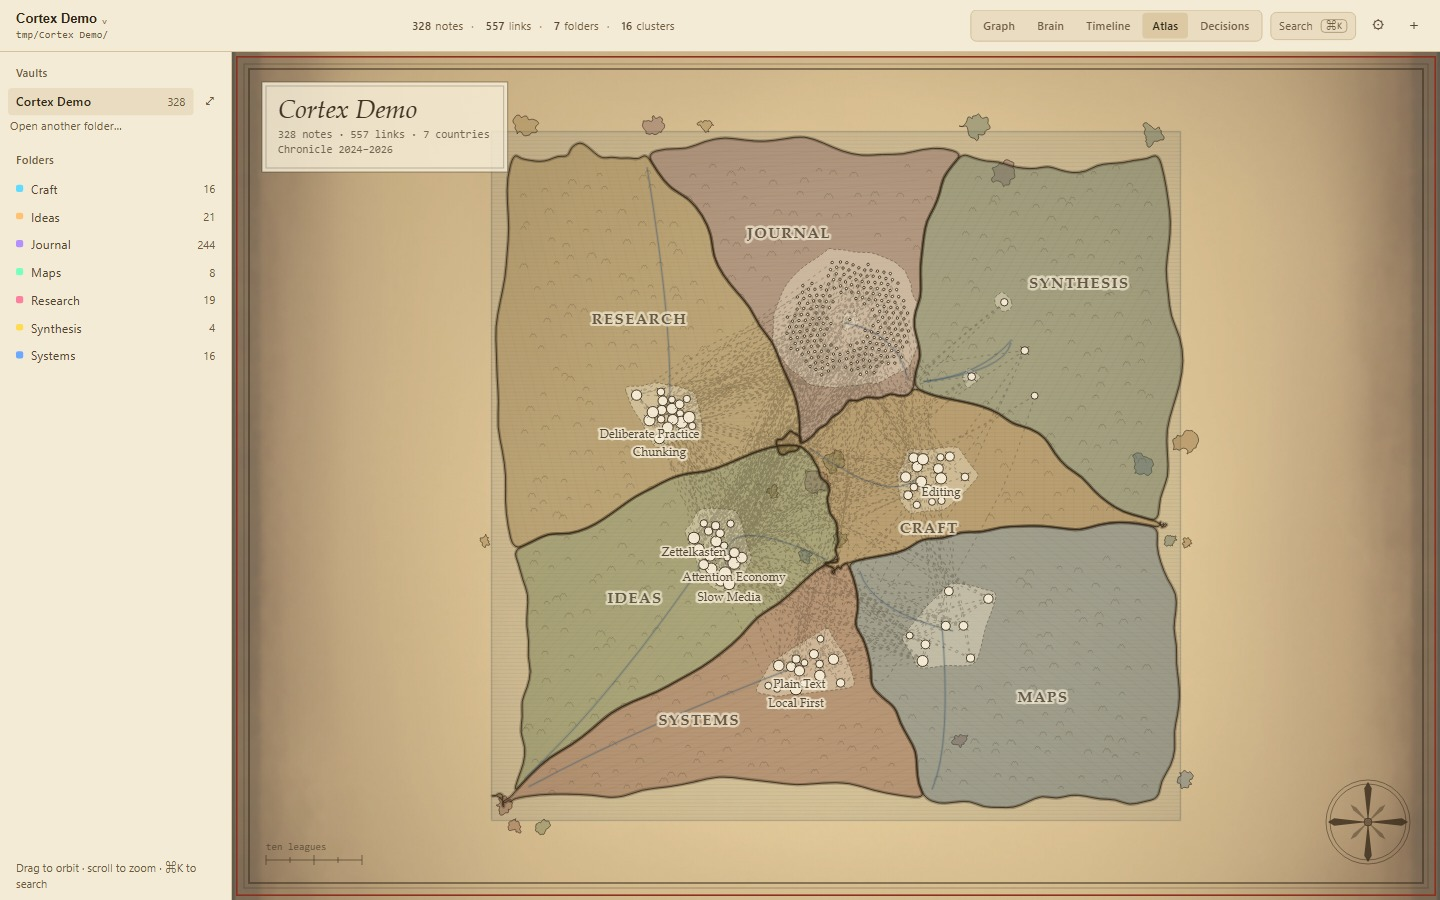
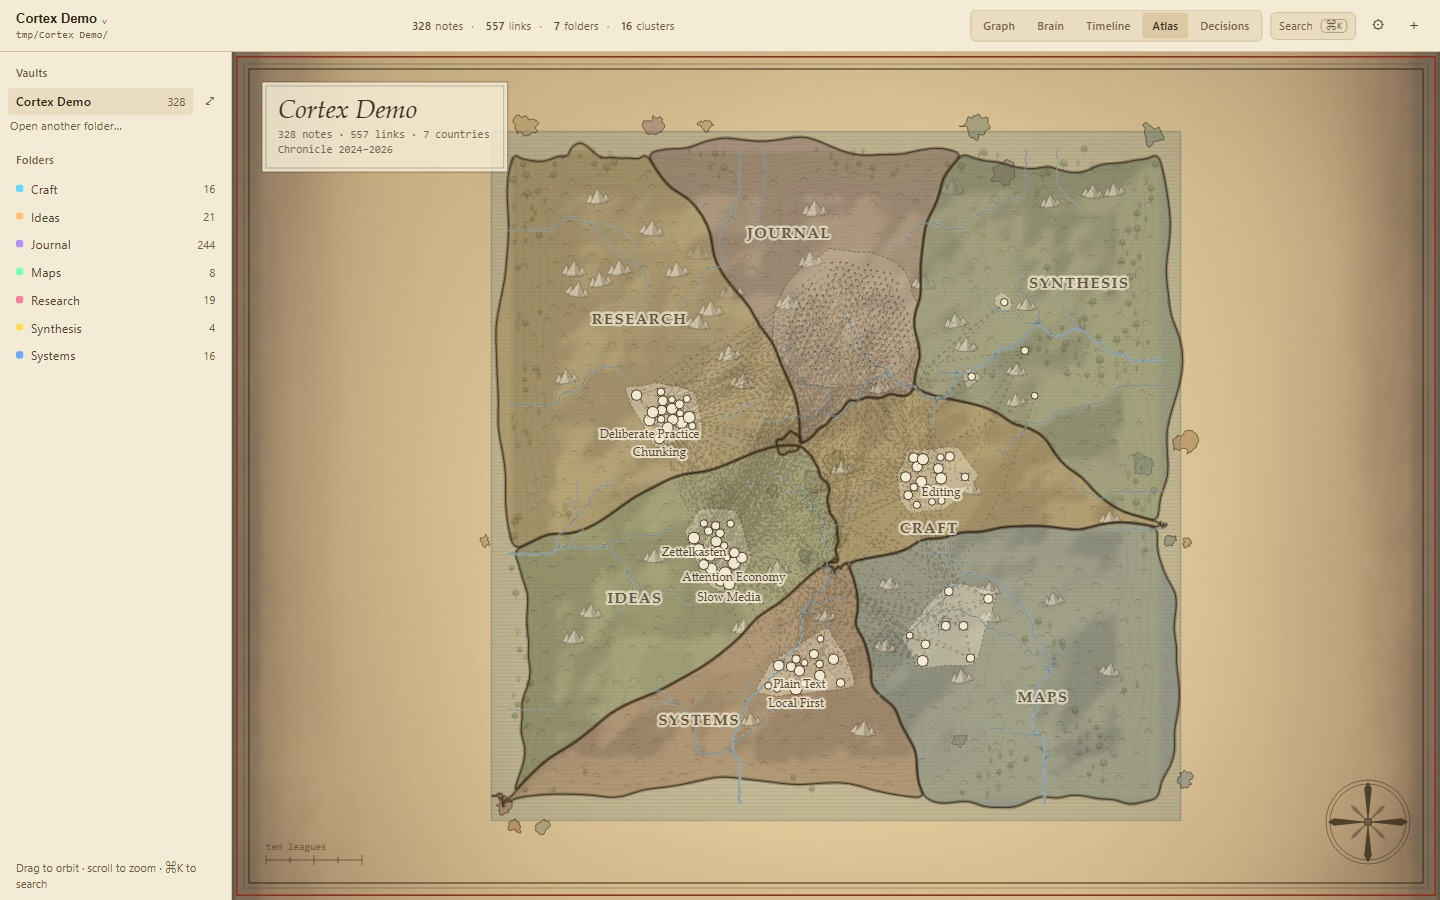
Version 0.5.0
Ship the terrain atlas, the deeper universe and the thinner cortex, with
a fresh gallery and the reading notes that explain the new geography.

🤖 Generated with Codebuff

diff --git a/README.md b/README.md
@@ -4,9 +4,9 @@ Cortex turns a folder of Markdown notes into a navigable 3D universe — and the
 gives that view a job: collect notes, read their local graph, and turn the
 selection into a research brief or an idea decision.
 
-Four views share one graph: a 3D **universe**, a **brain**, a **timeline**, and
-an **atlas** that draws folders as countries on a parchment map and links as
-roads. Same notes, different question: where does this live, and what connects
+Four spatial views share one graph: a 3D **universe**, a **brain**, a
+**timeline**, and an **atlas** that draws folders as countries on a parchment
+map and links as roads. Same notes, different question: where does this live, and what connects
 to it? A fifth, **Decisions**, steps out of the graph: it lists the research
 briefs and idea refinements you have written, grouped by status, with the notes
 each one cites.
@@ -21,7 +21,7 @@ The seeded demo vault, 328 notes — same graph, five ways to ask about it.
 | | |
 | --- | --- |
 | ![Graph view: a 3D universe of notes](docs/screenshots/01-graph.jpg) | ![Brain view: the same graph folded into hemispheres](docs/screenshots/02-brain.jpg) |
-| **Graph** — notes are stars, links are light. Drag to orbit, scroll to zoom, `f` to reframe. | **Brain** — the same graph laid out as two hemispheres, for seeing clusters instead of single notes. |
+| **Graph** — notes are stars, links are light, and the sky is a nebula. Drag to orbit, scroll to zoom, `f` to reframe. | **Brain** — the same graph inside a real cortical surface, its links drawn as fibre tracts. |
 | ![Timeline view: the vault replayed in the order it was written](docs/screenshots/03-timeline.jpg) | ![Atlas view: folders as countries on a parchment map](docs/screenshots/04-atlas.jpg) |
 | **Timeline** — the vault replayed in the order it was written, with a scrubber that goes anywhere. | **Atlas** — folders as countries, notes as places, links as roads, on a map that never moves. |
 | ![Decisions view: research briefs and ideas grouped by status](docs/screenshots/05-decisions.jpg) | |
@@ -102,8 +102,16 @@ countries, notes become places inside them, links become roads.
   folder centres and roughened with noise keyed to the *unordered* endpoints of
   each border segment, so two neighbouring countries displace their shared
   border to the same line instead of leaving a seam.
+- **Water follows the land.** Rivers are not drawn by hand: a 132×132 height
+  model (ridges inland, sea at the coast) is sink-filled and drained by
+  steepest descent, and one unit of rain per cell accumulates into streams
+  that join, widen and reach the sea.
+- **Terrain is engraved, not stamped.** Contour lines, hill shading, mountain
+  ranges and woods are all sampled from that same height model, so ranges sit
+  where the rivers rise and forests fill the low ground between them.
 - **Wilderness is the default.** Land nobody settled is stippled with grass;
   each clump of notes gets a walled enclosure with cleared ground inside it.
+  A folder of 240 notes becomes stipple, not a wall of discs.
 - **Roads carry weight.** Every link draws a road. A note with more links draws
   a wider road, and a link that crosses a border becomes a dashed trade route.
 - **Sea, islands, compass.** The land is pulled in from the frame, ringed with
@@ -257,7 +265,7 @@ https://github.com/thijnperd/obsidian-cortex/releases
 | macOS (Apple silicon) | `cortex-macos-arm64.tar.gz` |
 | Linux x86-64 | `cortex-linux-x86_64.tar.gz` |
 
-Tagged releases (`v0.4.0`) are fixed; every push to `main` also refreshes the
+Tagged releases (`v0.5.0`) are fixed; every push to `main` also refreshes the
 rolling `latest` build. The version appears in `cortex --version`, in **Vault
 settings → About**, and on `/api/about`. `SHA256SUMS.txt` is attached to every
 release.
